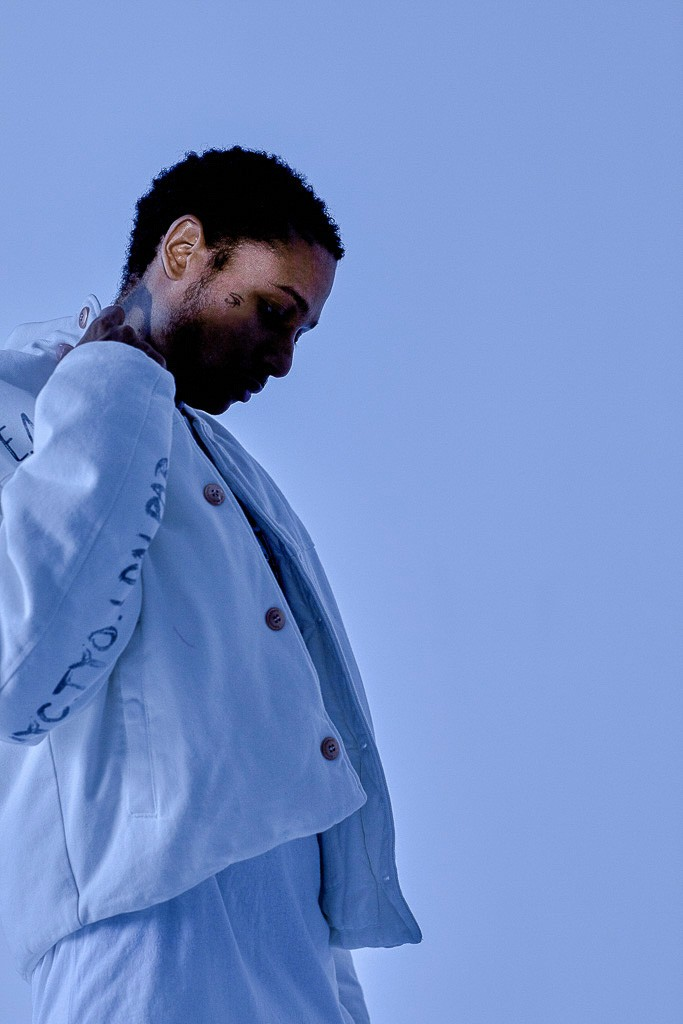
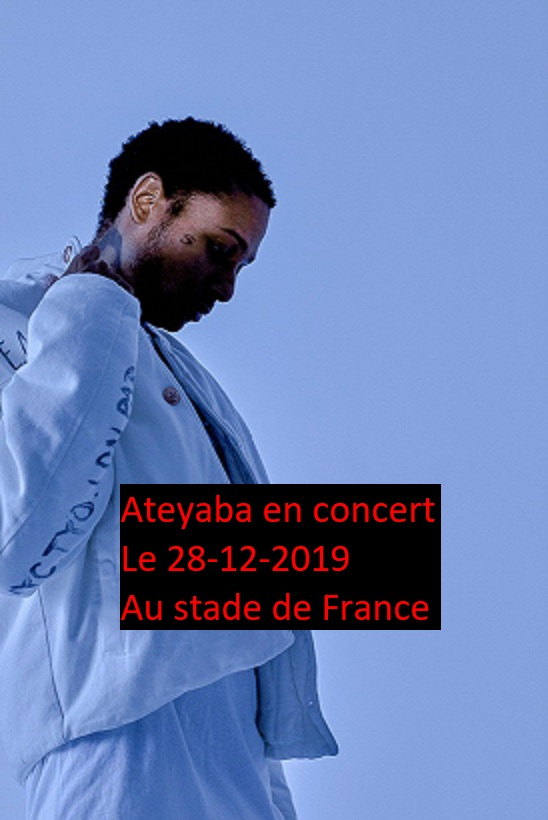
ajout

Changed region(s): [[0.2172, 0.5793, 0.8066, 0.7927], [0.2792, 0.3963, 0.3102, 0.4268], [0.2482, 0.2134, 0.2792, 0.2439]]

diff --git a/DesignWeb/ProjetExam/index.html b/DesignWeb/ProjetExam/index.html
@@ -9,6 +9,9 @@
     <link rel="icon" type="image/jpg" href="img/1f934.png" />
 </head>
 <body>
+<SECTION id="sectionaccueill">
+
+</SECTION>
 <nav class="navbar fixed-top navbar-expand-lg ">
     <a class="navbar-brand" href="#">
 
@@ -31,9 +34,10 @@
             </div>
 
             </a>
-            <a class="nav-item nav-link active" href="#">Accueil <span class="sr-only">(current)</span></a>
-            <a class="nav-item nav-link" href="#">A propos</a>
-            <a class="nav-item nav-link" href="#">Photos</a>
+            <a class="nav-item nav-link active" href="#sectionaccueill ">Accueil <span class="sr-only">(current)</span></a>
+            <a class="nav-item nav-link" href="#sectionapropos">A propos</a>
+            <a class="nav-item nav-link" href="#sectionphotos">Photos</a>
+            <a class="nav-item nav-link" href="#sectioncontact">Contact</a>
 
         </div>
         <form class="form-inline my-2 my-lg-0">
@@ -42,6 +46,173 @@
         </form>
     </div>
 </nav>
+<div id="myCarousel" class="carousel slide" data-ride="carousel">
+    <ul class="carousel-indicators">
+        <li data-target="#myCarousel" data-slide-to="0" class="active"></li>
+        <li data-target="#myCarousel" data-slide-to="1"  ></li>
+        <li data-target="#myCarousel" data-slide-to="2"></li>
+    </ul>
+
+    <div class="carousel-inner">
+        <div class="carousel-item active">
+            <img class="img-fluid" src="img/https___fr.hypebeast.com_files_2019_09_ateyaba-00.jpg" alt="ateyaba">
+
+        </div>
+        <div class="carousel-item">
+            <img class="img-fluid" src="img/https___fr.hypebeast.com_files_2019_09_Ateyaba-6-00.jpg" alt="ateyaba">
+
+        </div>
+        <div class="carousel-item">
+            <img class="img-fluid" src="img/https___fr.hypebeast.com_files_2019_09_Ateyaba-8-00.jpg" alt="goku">
+
+        </div>
+    </div>
+
+    <a class="carousel-control-prev" href="#myCarousel" data-slide="prev">
+        <span><i class="fas fa-caret-left fa-3x"></i></span>
+    </a>
+    <a class="carousel-control-next" href="#myCarousel" data-slide="next">
+        <span><i class="fas fa-caret-right fa-3x"></i></span>
+    </a>
+
+</div> <!-- Fin du carousel -->
+<div class="container-fluid">
+    <div class="row align-items-center text-center">
+        <div class="col-xl-12">
+            <section id="sectionapropos">
+                <div class="row align-items-center text-center">
+                    <div class="col-xl-4">
+                        <h1>Biographie</h1>
+                        <p>
+                            Né d'une mère togolaise et d'un père d'origine espagnole, Joke est né à Narbonne, puis s'installe avec sa mère à Montpellier.
+
+
+                            Après la sortie de l'EP Kyoto, le 26 novembre 2011, et un concert complet à La Maroquinerie de Paris en décembre, il est considéré en 2012 comme étant un talent prometteur du rap français ce qui lui permettra d’être repéré et signé par Def Jam France (Universal Music). Son deuxième EP Tokyo sortira par contre toujours en indépendant avec Golden Eye Music.
+
+                            Son style élégant et nonchalant , bien qu'usant de termes crus, fait dire aux Inrockuptibles qu'il est « en avance sur le rap français ». Son premier album dont le nom est dévoilé à la fin du clip de Harajuku se nomme Ateyaba et est publié le 2 juin 2014 avec Def Jam Recordings France, Universal Music et des sons déjà devenus populaire comme On est sur les nerfs ou Miley, l'album s'étant écoulé à plus de 10 000 exemplaires depuis juin 2014. En janvier 2015, il publie un EP gratuit intitulé DeLorean Music.
+
+                            Après une absence remarquée d'un peu plus de deux ans, il annonce son retour en mars 2017 par le biais d'une collaboration avec Nike pour le lancement de la Air VaporMax mais aussi pour son nouveau clip Vision (sorti le 27 mars 2017), premier extrait de son prochain album "Ultra Violet".
+                        </p>
+                    </div>
+                    <div class="col-xl-4">
+                        <h1>Discographie</h1>
+
+                        <p>
+                        <h3>Street albums</h3>
+                        </p>
+                        <p>
+                            2009 : Prêt pour l'argent (Institubes, Musicast)
+                        </p>
+                        <p>
+                            <h3>Mixtapes</h3>
+                        </p>
+                        <p>
+                            2011 : Prêt pour l'argent 1.5 (Les Monsieurs)
+                        </p>
+                        <p>
+                            <h3>EPs</h3>
+                        </p>
+                        <p>
+                            2012 : Kyoto (Golden Eye Music, Believe Recordings)
+                            2013 : Tokyo (Golden Eye Music, Believe Recordings)
+                            2015 : Delorean Music (Golden Eye Music)
+                        </p>
+                        <p>
+                            <h3>Albums</h3>
+                        </p>
+                        <p>
+                            2014 : Ateyaba (Golden Eye Music, Def Jam France, Universal)
+                            2020 : Ultra Violet ( Capitol, Universal)
+                        </p>
+                        <p>
+                        <h1> Le nouveau pharaon </h1>
+                        </p>
+
+                </div>
+                    <div class="col-xl-4">
+                        <div class="container-fluid">
+                            <div class="card" style="width: 18rem;">
+                                <img class="card-img-top" src="img/https___fr.hypebeast.com_files_2019_09_ateyaba-Bonus.jpg" alt="Card image cap">
+                                <div class="card-body">
+                                    <!-- Bouton qui ouvre le modal (nous verrons d’autres façons de l’ouvrir avec Javascript) -->
+                                    <button type="button" class="btn btn-primary" data-toggle="modal" data-target="#exampleModal">
+                                        Prochain Concert
+                                    </button>
+
+
+                                    <div class="modal" tabindex="-1" role="dialog" id="exampleModal">
+                                        <div class="modal-dialog" role="document">
+                                            <div class="modal-content">
+                                                <div class="modal-header">
+                                                    <h3 class="modal-title">LE PLUS GRAND EVENEMENT DE CETTE ANNÉE !!!!</h3>
+                                                    <button type="button" class="close" data-dismiss="modal" aria-label="Close">
+                                                        <span aria-hidden="true">&times;</span>
+                                                    </button>
+                                                </div>
+                                                <div class="modal-body">
+                                                        <div class="container">
+                                                            <p><h4>Le retour d'ateyaba sur scène ce 28-12-2019 à 20h au stade de France</h4></p>
+                                                            <div class="container-fluid px-0">
+                                                                <div class="row text-center">
+                                                                   <div class="col-xl-12">
+                                                                       <div id="myCarousel1" class="carousel slide" data-ride="carousel">
+                                                                           <ul class="carousel-indicators">
+                                                                               <li data-target="#myCarousel1" data-slide-to="0" class="active"></li>
+                                                                               <li data-target="#myCarousel1" data-slide-to="1"></li>
+                                                                               <li data-target="#myCarousel1" data-slide-to="2"></li>
+                                                                           </ul>
+
+                                                                           <div class="carousel-inner">
+                                                                               <div class="carousel-item active">
+                                                                                   <img class="img-fluid" src="img/https___fr.hypebeast.com_files_2019_09_Ateyaba-4.jpg" alt="ateyaba">
+                                                                               </div>
+                                                                               <div class="carousel-item">
+                                                                                   <img class="img-fluid" src="img/https___fr.hypebeast.com_files_2019_09_Ateyaba-11.jpg" alt="ateyaba">
+                                                                               </div>
+                                                                               <div class="carousel-item">
+                                                                                   <img class="img-fluid" src="img/https___fr.hypebeast.com_files_2019_09_02-Naturel-contraste-3.jpg" alt="ateyaba">
+                                                                               </div>
+                                                                           </div>
+
+                                                                           <a class="carousel-control-prev" href="#myCarousel1" data-slide="prev">
+                                                                               <span class="carousel-control-prev-icon"></span>
+                                                                           </a>
+                                                                           <a class="carousel-control-next" href="#myCarousel1" data-slide="next">
+                                                                               <span class="carousel-control-next-icon"></span>
+                                                                           </a>
+
+                                                                       </div> <!-- Fin du carousel -->
+
+                                                                   </div>
+                                                            </div>
+                                                        </div>
+
+                                                    </div>
+                                                    <div class="modal-footer">
+                                                        <button type="button" class="btn btn-primary">Achetes ton billet</button>
+                                                        <button type="button" class="btn btn-secondary" data-dismiss="modal">Fermer</button>
+                                                    </div>
+                                                </div>
+                                            </div>
+                                        </div>
+                                    </div>
+                                </div>
+                            </div>
+                        </div>
+                    </div>
+                </div>
+                <div class="container-fluid parallax h-100">
+                    <div class="row align-items-center h-100">
+                        <div class="col-12 text-center">
+
+                        </div>
+                    </div>
+                </div>
+
+            </section>
+        </div>
+    </div>
+</div>
 
 
 <script src="js/jquery-3.4.1.min.js"></script>

diff --git a/DesignWeb/ProjetExam/css/style.css b/DesignWeb/ProjetExam/css/style.css
@@ -9,6 +9,27 @@ body{
     color: #0ec3f1;
 
 }
+.parallax {
+    /* L’image du Parallax */
+    background-image: url("../img/myth-syzer-feat-ateyaba-lino-cross.jpg");
+
+    /* L’hauteur du Parallax */
+    height: 100%;
+
+    /* Création de l’effet */
+    background-attachment: fixed;
+    background-position: center;
+    background-repeat: no-repeat;
+    background-size: cover;
+}
+
+
+
+
+
+
+
+
 .navbar {
     background-color: #f1eff3;
 }

diff --git a/DesignWeb/premier/index.html b/DesignWeb/premier/index.html
@@ -18,7 +18,7 @@
 
     <div class="row  bg ">
         <div class="col-xl-3">
-            <a href="#sectionaccueill ">ACCUEILL</a>
+                <a href="#sectionaccueill ">ACCUEILL</a>
         </div>
         <div class="col-xl-3">
             <a href="#sectioncalendrier">CALENDRIER</a>

diff --git a/DesignWeb/Modal/index.html b/DesignWeb/Modal/index.html
@@ -55,6 +55,7 @@
                 <button type="button" class="btn btn-secondary" data-dismiss="modal">Fermer</button>
             </div>
         </div>
+        </div>
     </div>
 </div>
 <script src="js/jquery-3.4.1.min.js"></script>
